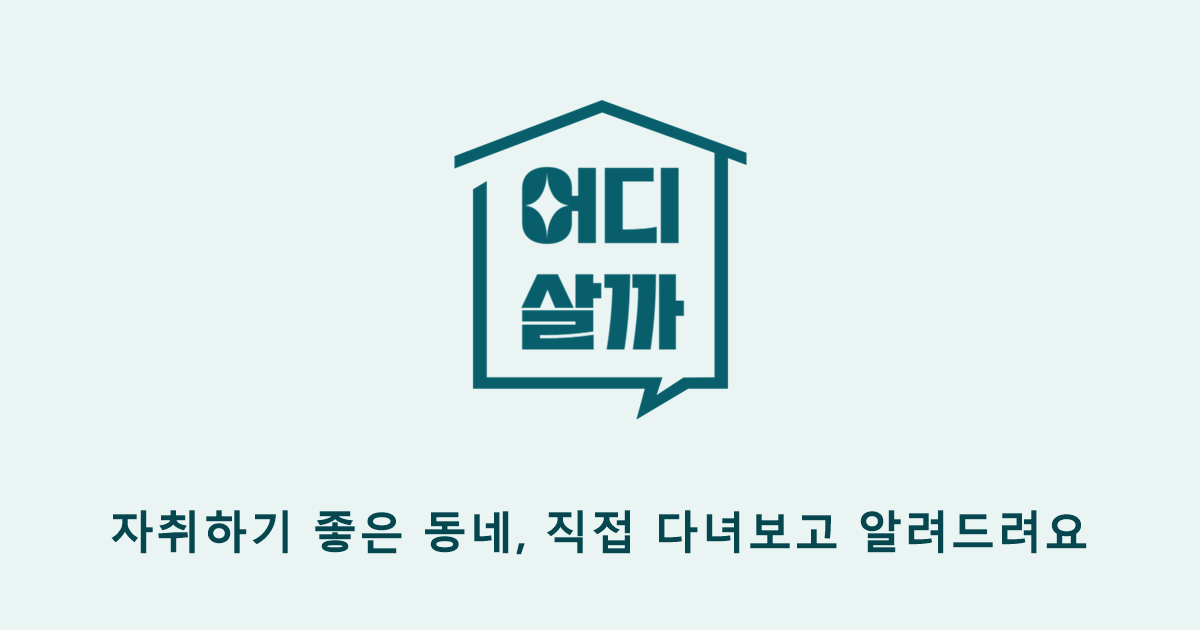
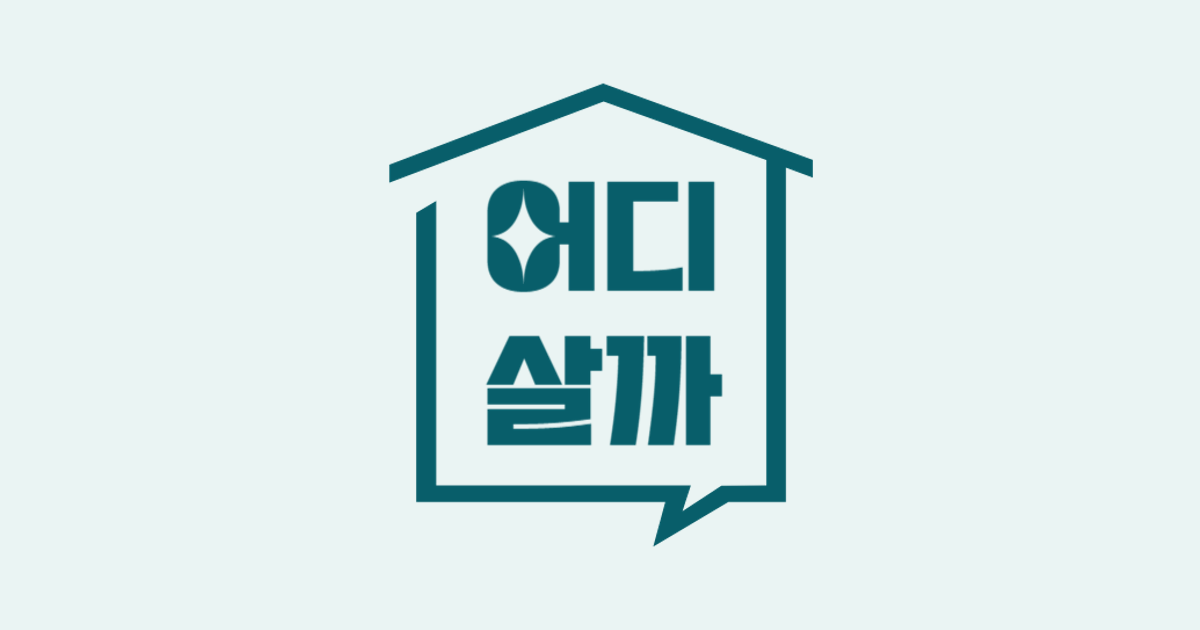
공유 미리보기와 모바일 정보창 열림 개선

Changed region(s): [[0.0925, 0.1206, 0.925, 0.9048]]

diff --git a/index.html b/index.html
@@ -12,13 +12,16 @@
     <meta property="og:title" content="어디살까? 자취하기 좋은 동네!" />
     <meta
       property="og:description"
-      content="직접 다녀보고 추천하는 자취 동네"
+      content="직접 다녀보고 알려주는 동네 정보"
     />
     <meta
       property="og:image"
-      content="https://odilive.github.io/odilive/og-image.png?v=2"
+      content="https://odilive.kr/og-image.png?v=3"
     />
-    <meta property="og:url" content="https://odilive.github.io/odilive/" />
+    <meta property="og:image:width" content="1200" />
+    <meta property="og:image:height" content="630" />
+    <meta property="og:image:alt" content="어디살까 로고" />
+    <meta property="og:url" content="https://odilive.kr/" />
     <meta name="twitter:card" content="summary_large_image" />
     <link rel="icon" type="image/png" href="favicon.png" />
     <link rel="apple-touch-icon" href="apple-touch-icon.png" />
@@ -1085,12 +1088,6 @@
           max-height: 45vh;
           padding: 24px 54px 12px 18px;
         }
-        #info-panel.is-peek.expand-hint {
-          animation: info-sheet-expand-hint 560ms ease-out;
-        }
-        #info-panel.is-peek.expand-hint #info-peek-next {
-          animation: info-peek-next-hint 560ms ease-out;
-        }
         #info-panel.is-peek .info-actions,
         #info-panel.is-peek #info-scroll,
         #info-panel.is-peek #info-links {
@@ -1166,24 +1163,6 @@
           font-size: 11px;
           font-weight: 800;
         }
-        @keyframes info-peek-next-hint {
-          0%,
-          100% {
-            max-height: 19px;
-          }
-          48% {
-            max-height: 38px;
-          }
-        }
-        @keyframes info-sheet-expand-hint {
-          0%,
-          100% {
-            min-height: 126px;
-          }
-          48% {
-            min-height: 152px;
-          }
-        }
         #site-panel {
           top: 0;
           right: -400px;
@@ -1236,13 +1215,6 @@
           width: fit-content;
           max-width: calc(100% - 36px);
           font-size: 12px;
-        }
-      }
-
-      @media (prefers-reduced-motion: reduce) {
-        #info-panel.is-peek.expand-hint,
-        #info-panel.is-peek.expand-hint #info-peek-next {
-          animation: none;
         }
       }
 
@@ -1719,7 +1691,7 @@
         }, 350);
       }
 
-      // 모바일에서는 상단부를 끌거나, 본문이 맨 위일 때 아래로 당겨 패널을 닫을 수 있다.
+      // 모바일에서는 손잡이·상단부 또는 맨 위의 본문을 당겨 접고, 다시 당기면 닫는다.
       function enableMobileSheetDrag(panelId, scrollId, closePanel) {
         var panel = document.getElementById(panelId);
         var scroll = document.getElementById(scrollId);
@@ -2468,23 +2440,10 @@
         });
 
         var infoPanel = document.getElementById("info-panel");
-        var isShortInfo =
-          isPhoneInfoPanel() &&
-          visibleSpecs.length <= 2 &&
-          !amenitiesHtml &&
-          !facilitySummaryHtml &&
-          !contentLinks.some(function (item) {
-            return !!item.url;
-          });
-        infoPanel.classList.remove("is-closing-peek");
+        // 처음 선택할 때는 상세 정보를 바로 보여주고, 사용자가 내려 접을 때만 요약한다.
+        infoPanel.classList.remove("is-closing-peek", "is-peek");
         infoPanel.classList.add("open");
-        infoPanel.classList.toggle("is-short-info", isShortInfo);
-        infoPanel.classList.toggle(
-          "is-peek",
-          isPhoneInfoPanel() && !isShortInfo,
-        );
-        if (infoPanel.classList.contains("is-peek") && !isShortInfo)
-          hintInfoPanelExpansion();
+        document.getElementById("info-scroll").scrollTop = 0;
         // 편·빨·약 표시를 끈 동네는 상세 요약뿐 아니라 지도 이모지도 보여주지 않는다.
         // 빈 배열을 전달해 이전에 열었던 동네의 이모지도 함께 정리한다.
         renderCachedFacilities(
@@ -2587,7 +2546,7 @@
         clearDevelopmentOverlays();
         var panel = document.getElementById("info-panel");
         var wasPeek = panel.classList.contains("is-peek");
-        panel.classList.remove("open", "expand-hint");
+        panel.classList.remove("open");
         if (wasPeek) {
           // 축소 높이를 유지한 채 화면 밖으로 보낸 뒤에만 상태를 정리한다.
           // 그렇지 않으면 전체 높이로 잠깐 커지며 위로 튀어 보인다.
@@ -2597,15 +2556,11 @@
               panel.classList.contains("is-closing-peek") &&
               !panel.classList.contains("open")
             ) {
-              panel.classList.remove(
-                "is-peek",
-                "is-short-info",
-                "is-closing-peek",
-              );
+              panel.classList.remove("is-peek", "is-closing-peek");
             }
           }, 320);
         } else {
-          panel.classList.remove("is-peek", "is-short-info", "is-closing-peek");
+          panel.classList.remove("is-peek", "is-closing-peek");
         }
         if (selectedNeighborhood) {
           selectedNeighborhood.polygon.setMap(null);
@@ -2628,7 +2583,7 @@
       window.addEventListener("resize", function () {
         var panel = document.getElementById("info-panel");
         if (!isPhoneInfoPanel() && panel.classList.contains("open")) {
-          panel.classList.remove("is-peek", "is-short-info", "expand-hint");
+          panel.classList.remove("is-peek");
         }
         updateDevelopmentOverlayLabelVisibility();
       });
@@ -2645,10 +2600,7 @@
 
       function handleInfoSheetPullDown() {
         var panel = document.getElementById("info-panel");
-        if (
-          panel.classList.contains("is-peek") ||
-          panel.classList.contains("is-short-info")
-        ) {
+        if (panel.classList.contains("is-peek")) {
           closeInfoPanel();
           return "closed";
         }
@@ -2658,17 +2610,7 @@
 
       function expandInfoPanel() {
         var panel = document.getElementById("info-panel");
-        panel.classList.remove("is-peek", "expand-hint");
-      }
-
-      function hintInfoPanelExpansion() {
-        var panel = document.getElementById("info-panel");
-        panel.classList.remove("expand-hint");
-        window.requestAnimationFrame(function () {
-          if (panel.classList.contains("is-peek")) {
-            panel.classList.add("expand-hint");
-          }
-        });
+        panel.classList.remove("is-peek");
       }
 
       function handleInfoClose() {
